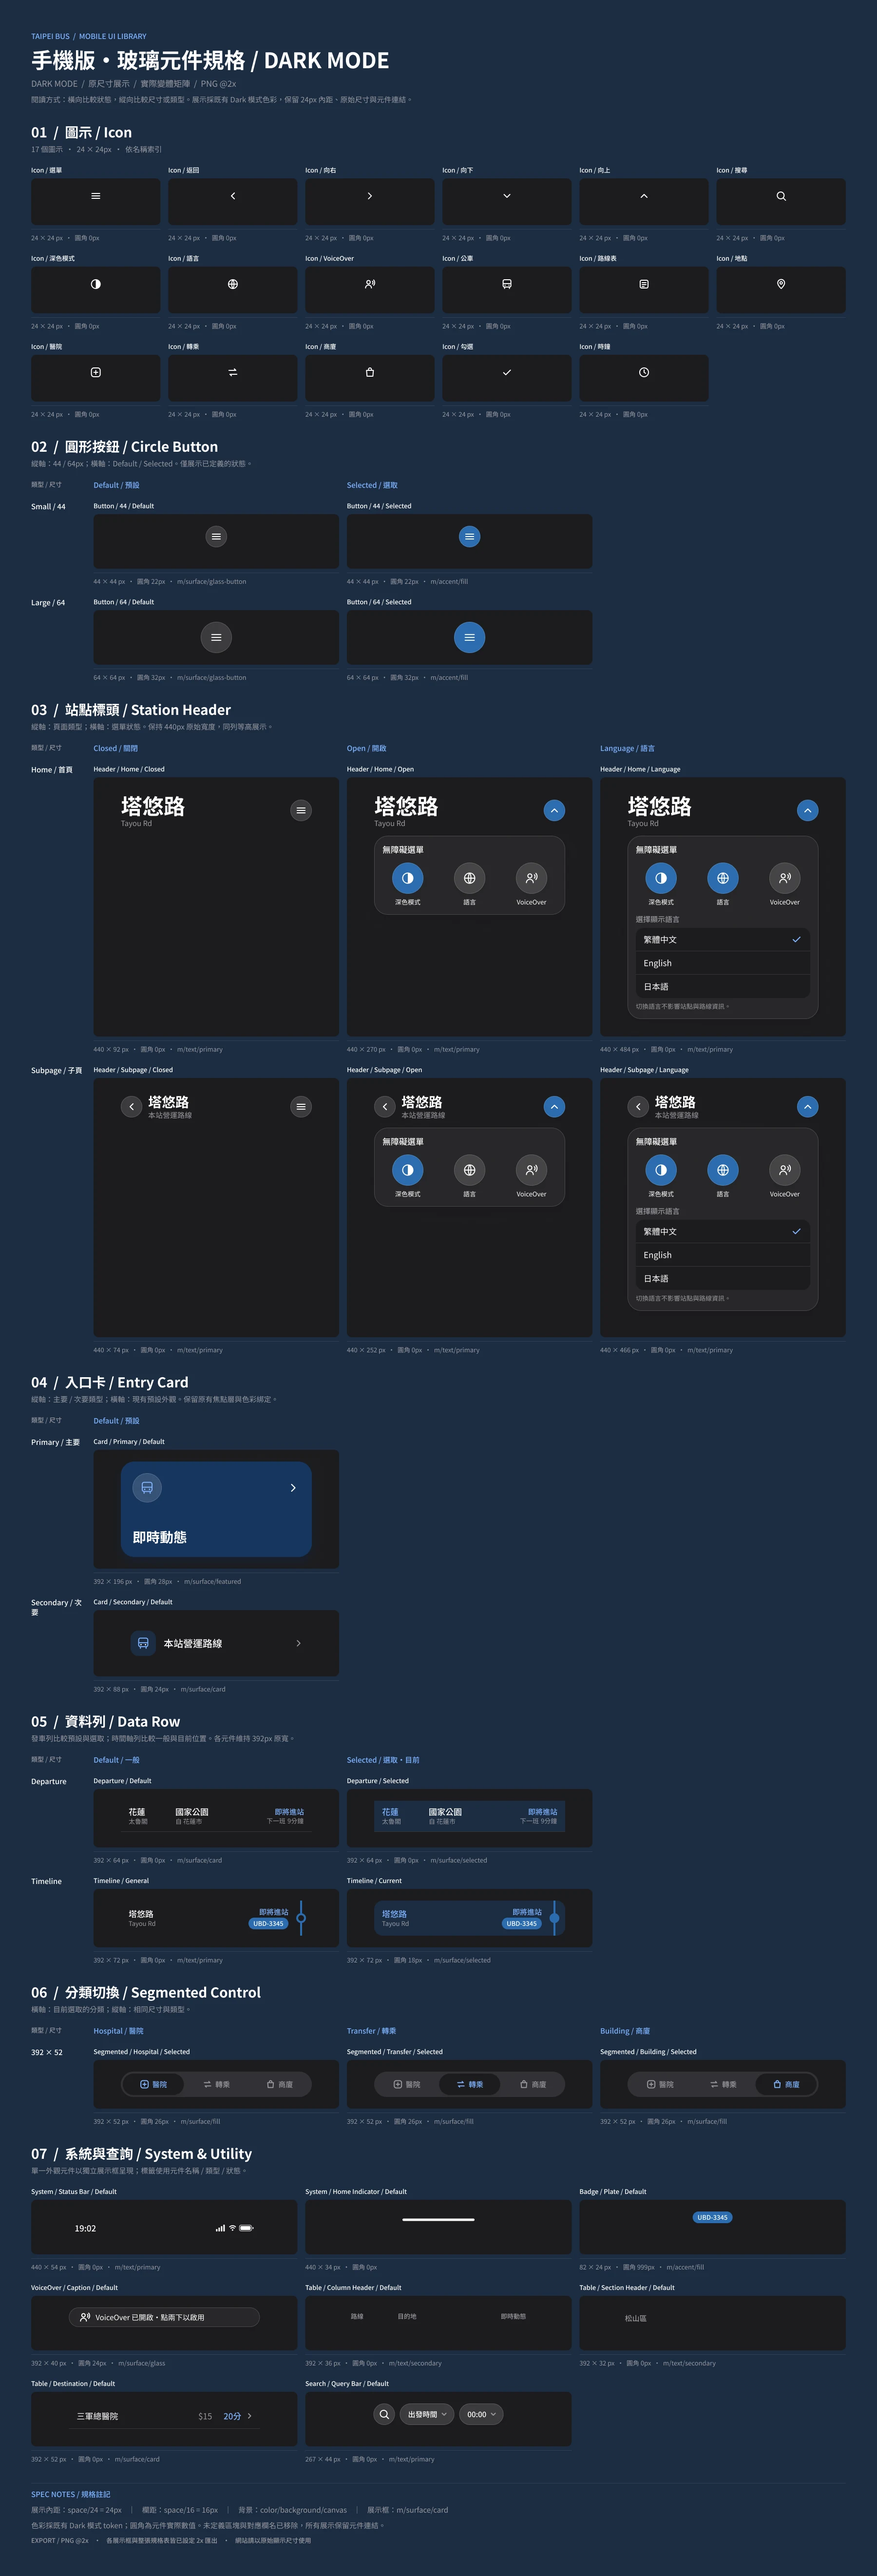
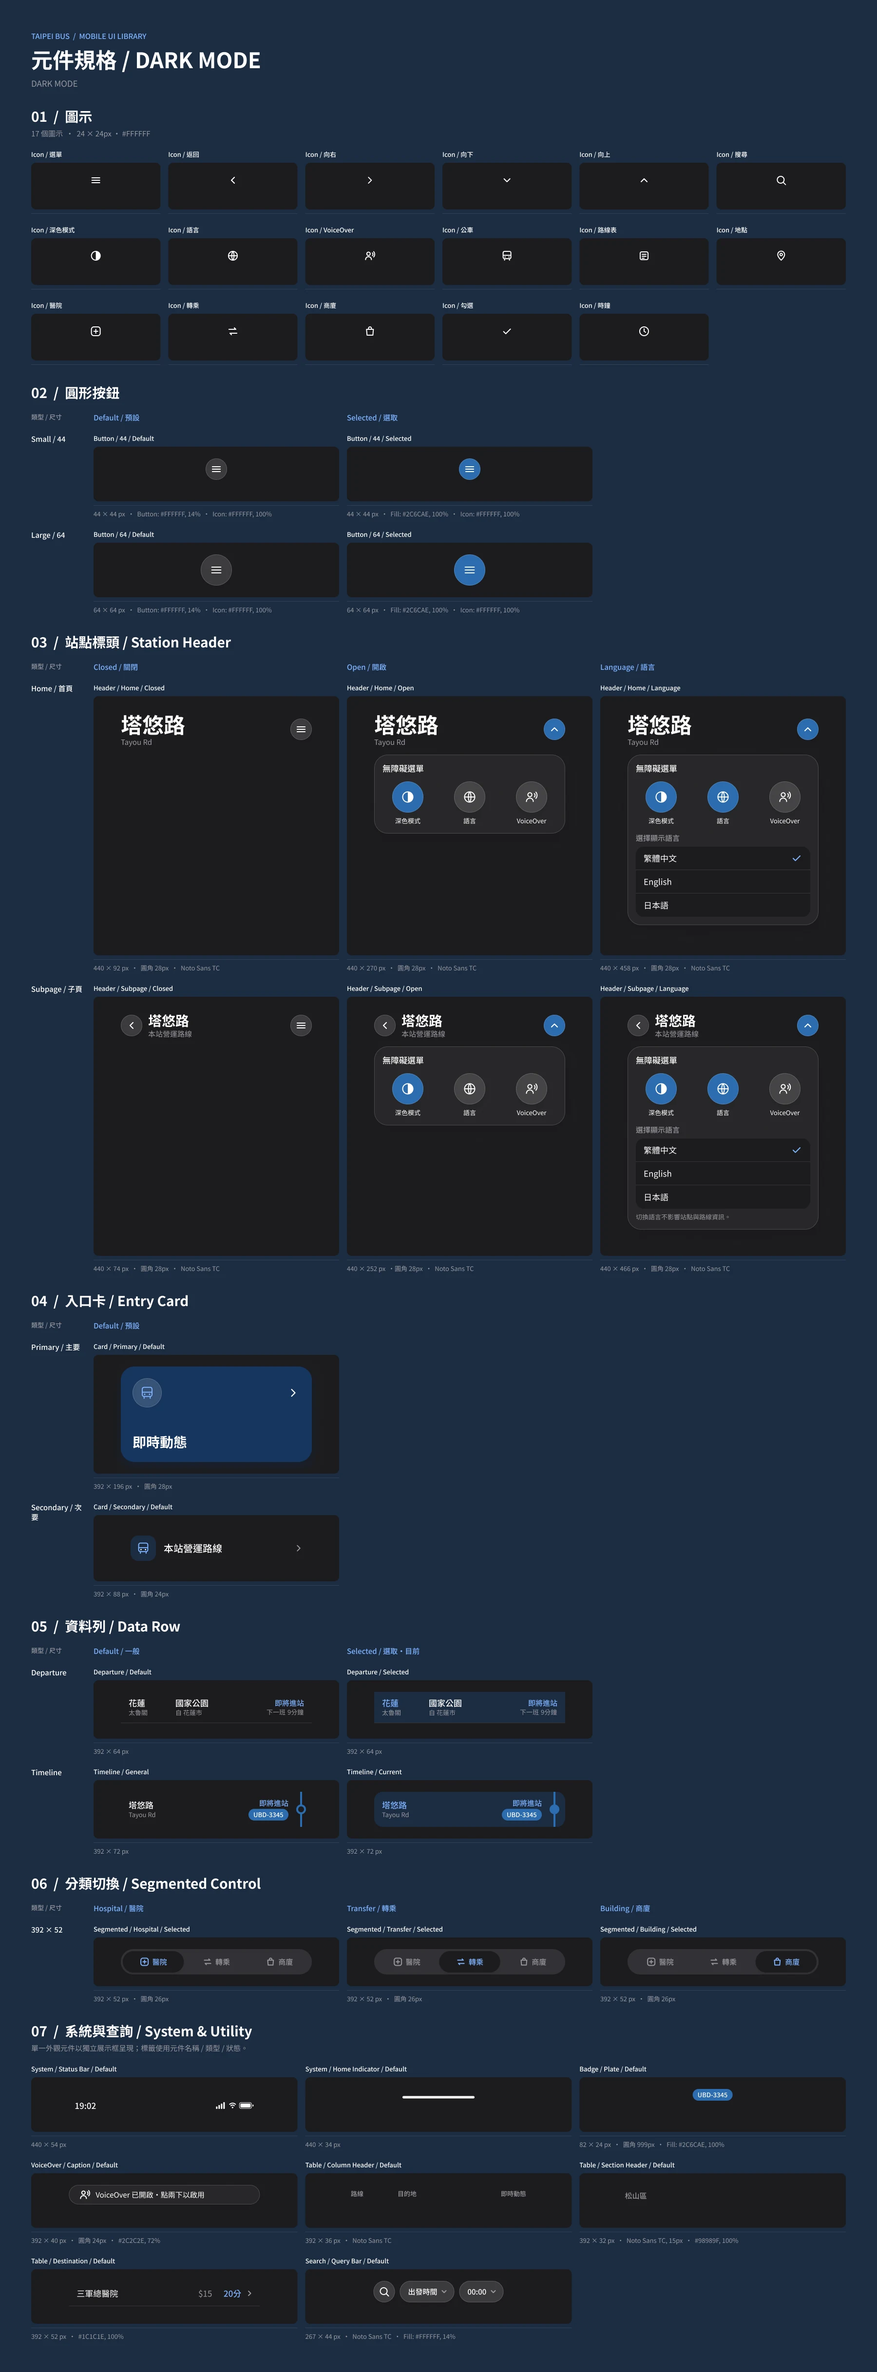
Update Bus App UI component sheets from Figma

diff --git a/bus-app.html b/bus-app.html
@@ -1267,8 +1267,8 @@ footer {
         <button type="button" class="ui-mode" data-mode="dark" aria-pressed="false">Dark</button>
       </div>
       <div class="ui-sheet" data-mode="light">
-        <img class="ui-light" src="the%20Bus%20App/ui-components-light.webp" alt="UI 元件表（淺色模式）" width="1800" height="5286" loading="lazy" decoding="async">
-        <img class="ui-dark" src="the%20Bus%20App/ui-components-dark.webp" alt="UI 元件表（深色模式）" width="1800" height="5286" loading="lazy" decoding="async" aria-hidden="true">
+        <img class="ui-light" src="the%20Bus%20App/ui-components-light.webp" alt="UI 元件表（淺色模式）" width="1800" height="4869" loading="lazy" decoding="async">
+        <img class="ui-dark" src="the%20Bus%20App/ui-components-dark.webp" alt="UI 元件表（深色模式）" width="1800" height="4869" loading="lazy" decoding="async" aria-hidden="true">
       </div>
     </div>
     <!-- 作品內容放這裡 -->
